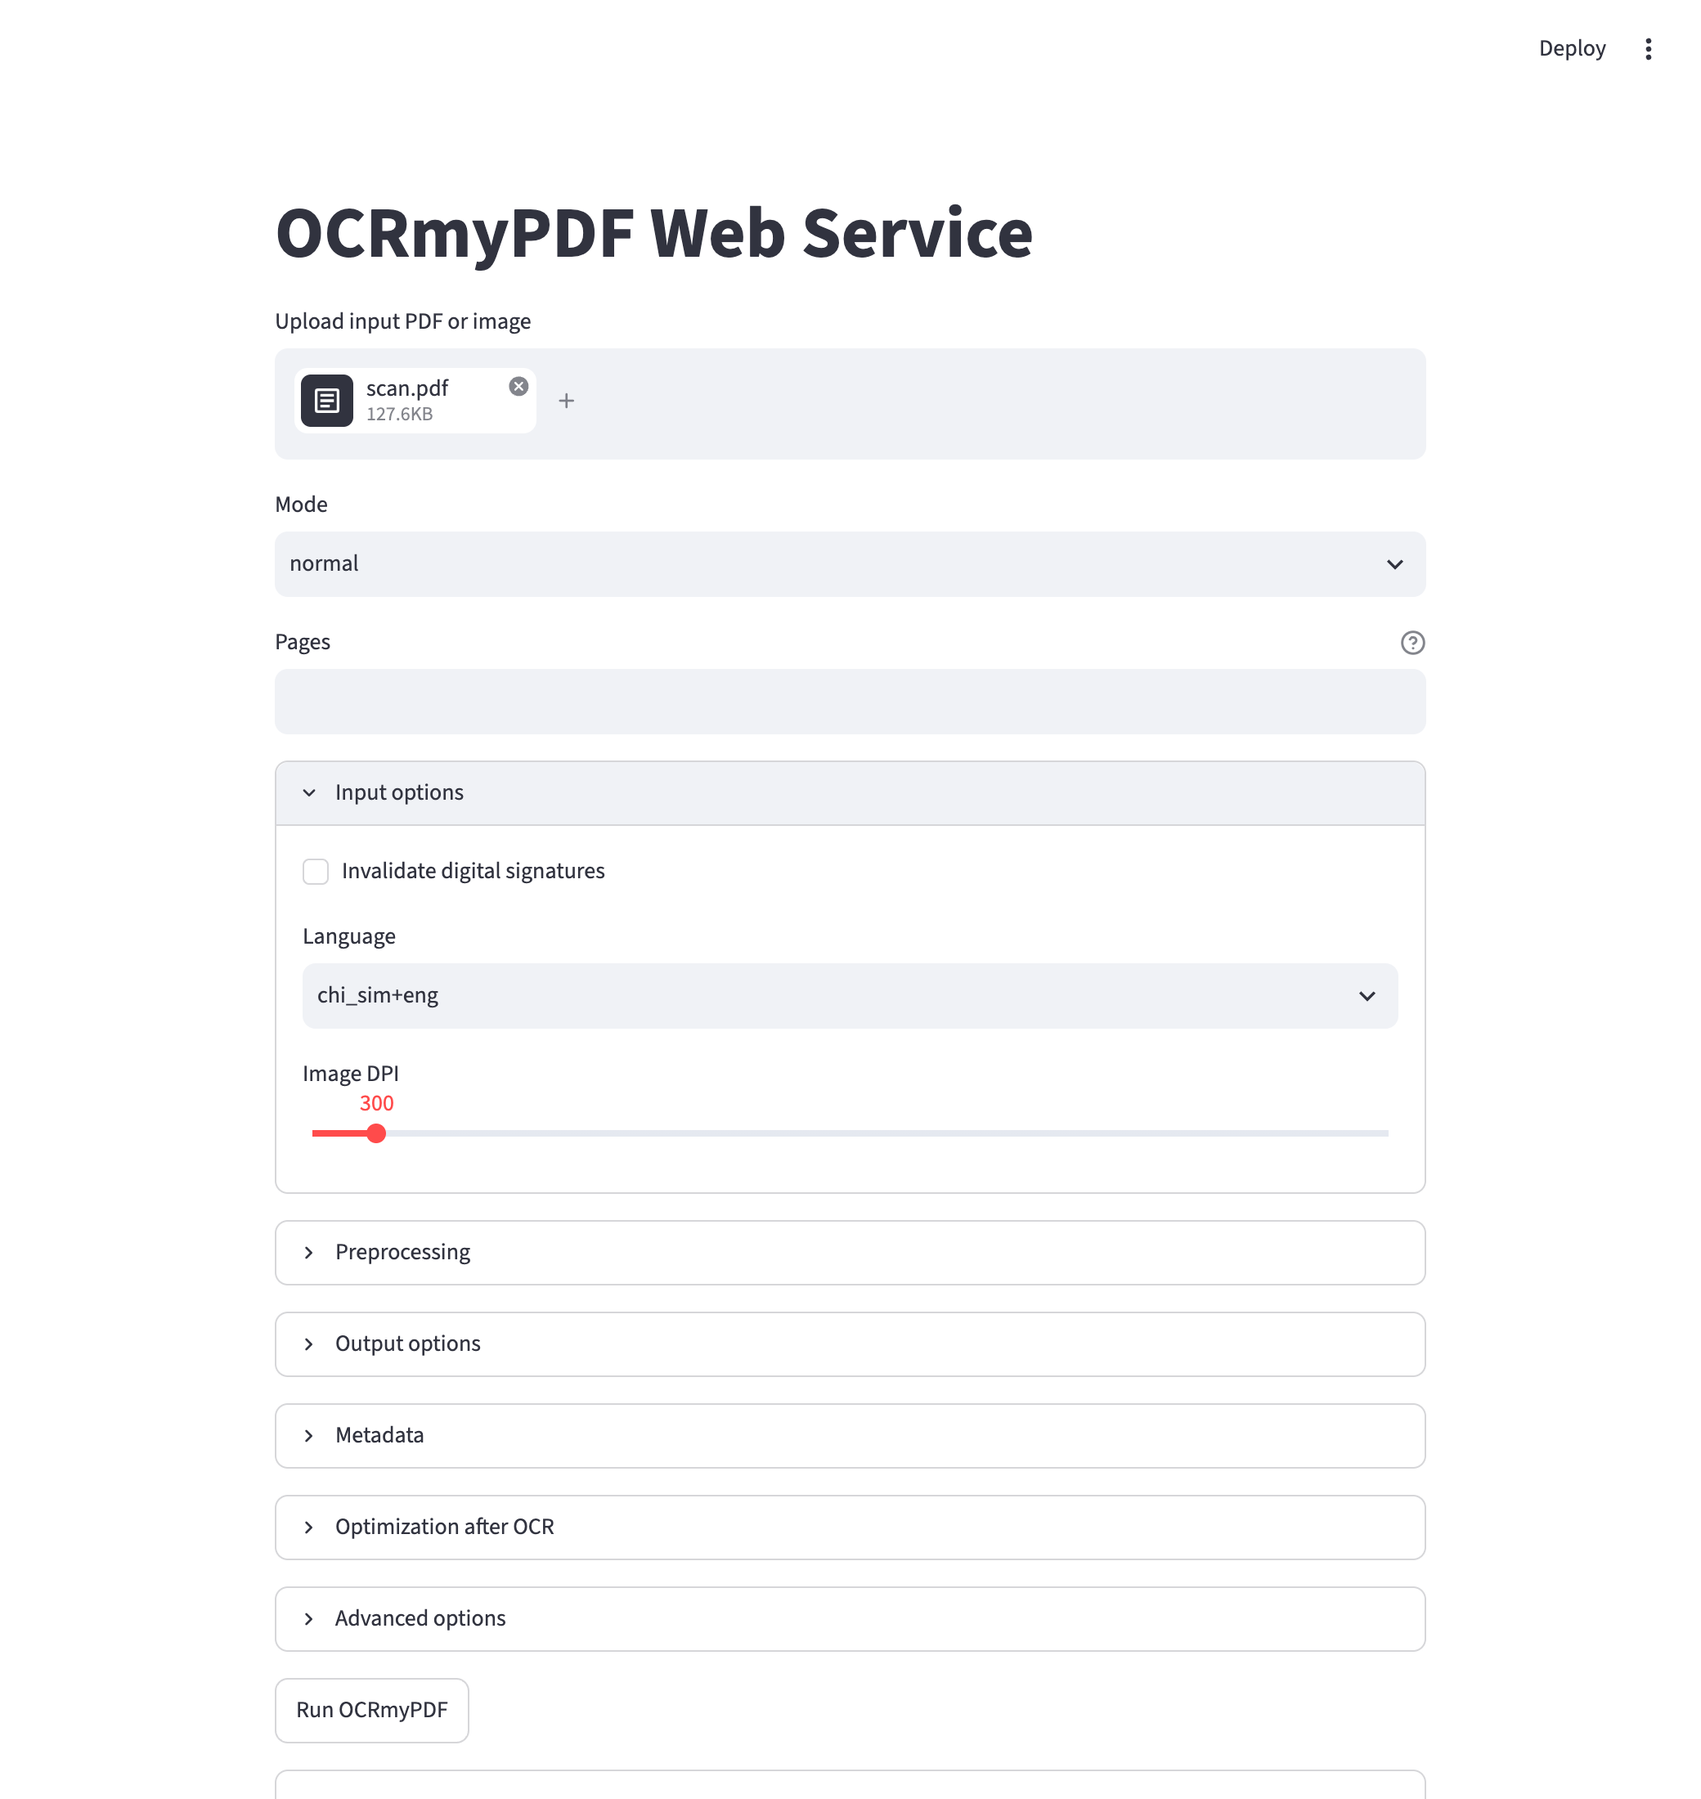
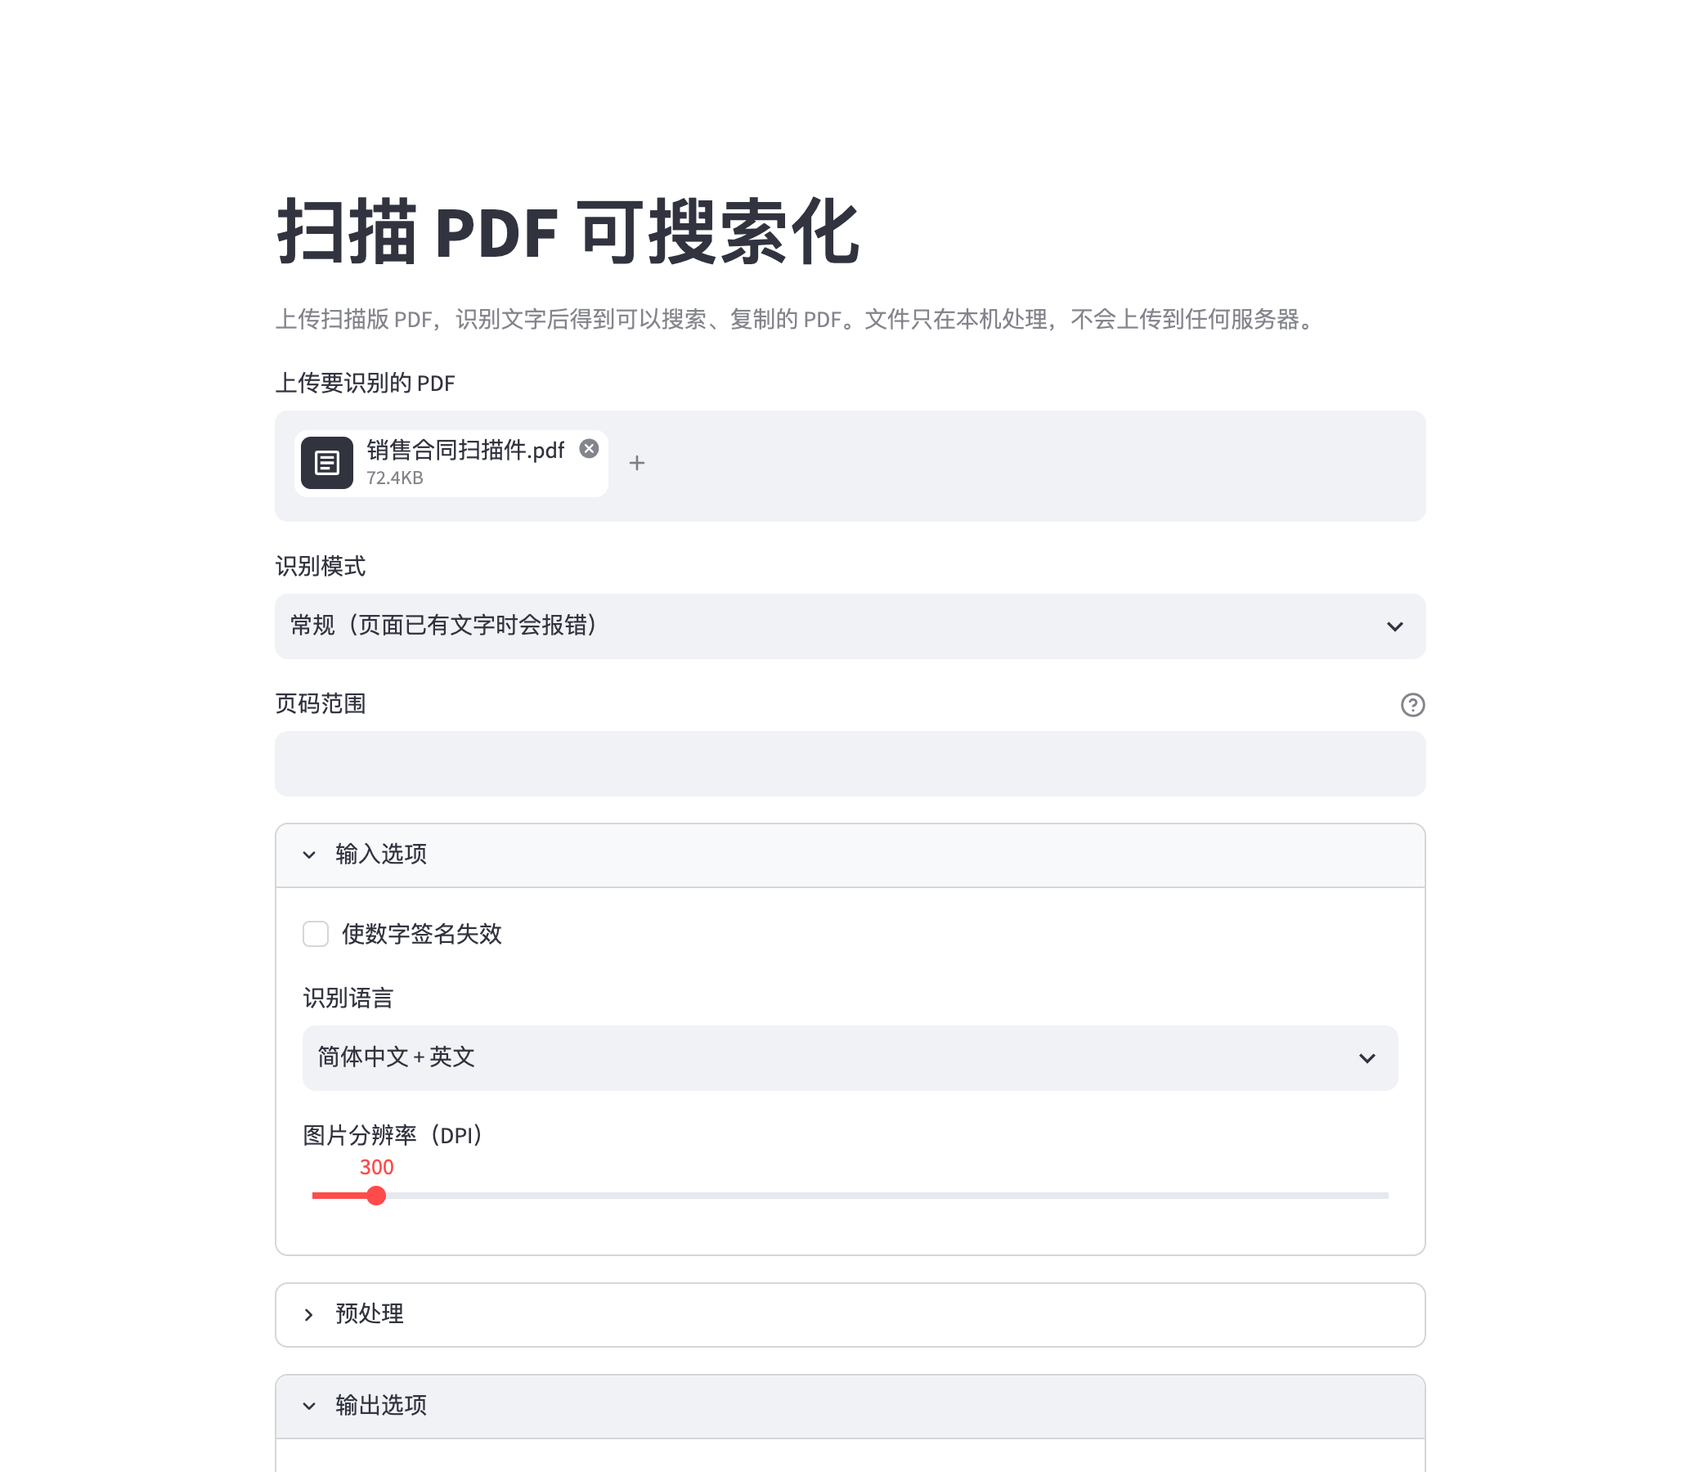
篝火：网页界面全部汉化，更新中文截图与说明

diff --git a/misc/_webservice.py b/misc/_webservice.py
@@ -15,8 +15,6 @@ from __future__ import annotations
 import os
 import subprocess
 import sys
-from functools import partial
-from operator import getitem
 from pathlib import Path
 from tempfile import TemporaryDirectory
 
@@ -36,109 +34,190 @@ def get_host_url_with_port(port: int) -> str:
     return f"//{host}:{port}"  # Use the same protocol
 
 
-st.title("OCRmyPDF Web Service")
+# 篝火版：界面文字全部汉化。选项的取值（传给 ocrmypdf 的参数）保持原样，只把显示文字换成中文。
+MODE_LABELS = {
+    "normal": "常规（页面已有文字时会报错）",
+    "skip-text": "跳过已有文字的页面",
+    "force-ocr": "强制识别（已有文字也重新识别）",
+    "redo-ocr": "重新识别（替换旧的文字层）",
+}
+LANGUAGE_LABELS = {
+    "chi_sim+eng": "简体中文 + 英文",
+    "eng": "英文",
+    "chi_tra+eng": "繁体中文 + 英文",
+    "chi_sim": "仅简体中文",
+}
+OUTPUT_TYPE_LABELS = {
+    "pdfa": "PDF/A（归档格式，默认）",
+    "pdf": "普通 PDF",
+    "pdfa-1": "PDF/A-1",
+    "pdfa-2": "PDF/A-2",
+    "pdfa-3": "PDF/A-3",
+    "none": "不生成文件",
+}
+RENDERER_LABELS = {
+    "auto": "自动选择",
+    "hocr": "逐词定位渲染",
+    "hocrdebug": "逐词定位渲染（显示文字框，调试用）",
+    "sandwich": "三明治渲染（图像加不可见文字层）",
+}
+OPTIMIZE_LABELS = {
+    "0": "0（不优化）",
+    "1": "1（无损优化）",
+    "2": "2（有损优化，受下方质量设置影响）",
+    "3": "3（最大程度压缩）",
+}
+COMPRESSION_LABELS = {"auto": "自动", "jpeg": "JPEG", "lossless": "无损"}
+VERBOSE_LABELS = {-1: "安静", 0: "默认", 1: "调试", 2: "详细调试"}
 
-uploaded = st.file_uploader("Upload input PDF or image", type=["pdf"], key="file")
-
-mode = st.selectbox("Mode", options=["normal", "skip-text", "force-ocr", "redo-ocr"])
-
-pages = st.text_input(
-    "Pages", value="", help="Comma-separated list of pages to process"
+st.title("扫描 PDF 可搜索化")
+st.caption(
+    "上传扫描版 PDF，识别文字后得到可以搜索、复制的 PDF。文件只在本机处理，不会上传到任何服务器。"
 )
 
-with st.expander("Input options"):
-    invalidate_digital_signatures = st.checkbox(
-        "Invalidate digital signatures", value=False
+uploaded = st.file_uploader("上传要识别的 PDF", type=["pdf"], key="file")
+
+# 篝火版：Streamlit 上传框自带的英文提示（按钮、拖放说明）没有中文开关，用样式把它们替换成中文。
+# 只在还没选文件时注入：选好文件后上传框里只剩图标按钮，样式会把它们弄乱。
+if uploaded is None:
+    st.markdown(
+        """
+<style>
+[data-testid="stFileUploaderDropzone"] button [data-testid="stMarkdownContainer"] p { font-size: 0 !important; }
+[data-testid="stFileUploaderDropzone"] button [data-testid="stMarkdownContainer"] p::after {
+    content: "选择文件"; font-size: 1rem;
+}
+[data-testid="stFileUploaderDropzoneInstructions"] span { font-size: 0 !important; }
+[data-testid="stFileUploaderDropzoneInstructions"] span::after {
+    content: "把 PDF 文件拖到这里，每个文件不超过 200 MB"; font-size: 0.875rem;
+}
+[data-testid="stFileUploaderDropzoneInstructions"] small { display: none; }
+</style>
+""",
+        unsafe_allow_html=True,
     )
+
+mode = st.selectbox(
+    "识别模式",
+    options=["normal", "skip-text", "force-ocr", "redo-ocr"],
+    format_func=MODE_LABELS.get,
+)
+
+pages = st.text_input(
+    "页码范围", value="", help="只处理指定的页，页码用英文逗号分隔，例如 1,3,5-8；留空表示全部页"
+)
+
+with st.expander("输入选项"):
+    invalidate_digital_signatures = st.checkbox("使数字签名失效", value=False)
     # 篝火版：语言选项改为启动脚本下载好的 chi_sim / chi_tra / eng
     language = st.selectbox(
-        "Language", options=["chi_sim+eng", "eng", "chi_tra+eng", "chi_sim"]
+        "识别语言",
+        options=["chi_sim+eng", "eng", "chi_tra+eng", "chi_sim"],
+        format_func=LANGUAGE_LABELS.get,
     )
 
     image_dpi = st.slider(
-        "Image DPI", value=300, key="image_dpi", min_value=1, max_value=5000, step=50
+        "图片分辨率（DPI）",
+        value=300,
+        key="image_dpi",
+        min_value=1,
+        max_value=5000,
+        step=50,
     )
-with st.expander("Preprocessing"):
-    skip_big = st.checkbox("Skip OCR on big pages", value=False, key="skip_big")
-    oversample = st.slider("Oversample", min_value=0, max_value=5000, value=0, step=50)
-    rotate_pages = st.checkbox("Rotate pages", value=False, key="rotate")
-    deskew = st.checkbox("Deskew pages", value=False, key="deskew")
-    clean = st.checkbox("Clean pages before OCR", value=False, key="clean")
-    clean_final = st.checkbox("Clean final", value=False, key="clean_final")
-    remove_vectors = st.checkbox("Remove vectors", value=False, key="remove_vectors")
+with st.expander("预处理"):
+    skip_big = st.checkbox("跳过过大的页面", value=False, key="skip_big")
+    oversample = st.slider(
+        "最低分辨率（DPI，低于此值会放大）", min_value=0, max_value=5000, value=0, step=50
+    )
+    rotate_pages = st.checkbox("自动旋转页面", value=False, key="rotate")
+    deskew = st.checkbox("自动纠正倾斜", value=False, key="deskew")
+    clean = st.checkbox("识别前清理页面", value=False, key="clean")
+    clean_final = st.checkbox("把清理结果写入最终文件", value=False, key="clean_final")
+    remove_vectors = st.checkbox("去除矢量图形", value=False, key="remove_vectors")
 
 
-with st.expander("Output options"):
+with st.expander("输出选项"):
     output_type = st.selectbox(
-        "Output type", options=["pdfa", "pdf", "pdfa-1", "pdfa-2", "pdfa-3", "none"]
+        "输出格式",
+        options=["pdfa", "pdf", "pdfa-1", "pdfa-2", "pdfa-3", "none"],
+        format_func=OUTPUT_TYPE_LABELS.get,
     )
 
     pdf_renderer = st.selectbox(
-        "PDF renderer", options=["auto", "hocr", "hocrdebug", "sandwich"]
+        "文字层渲染方式",
+        options=["auto", "hocr", "hocrdebug", "sandwich"],
+        format_func=RENDERER_LABELS.get,
     )
 
-    optimize = st.selectbox("Optimize", options=["0", "1", "2", "3"])
+    optimize = st.selectbox(
+        "文件体积优化", options=["0", "1", "2", "3"], format_func=OPTIMIZE_LABELS.get
+    )
 
-    st.selectbox("PDF/A compression", options=["auto", "jpeg", "lossless"])
+    st.selectbox(
+        "PDF/A 压缩方式",
+        options=["auto", "jpeg", "lossless"],
+        format_func=COMPRESSION_LABELS.get,
+    )
 
-with st.expander("Metadata"):
+with st.expander("文档信息"):
     title = author = keywords = subject = None
     if uploaded:
         with pikepdf.open(uploaded) as pdf, pdf.open_metadata() as meta:
             st.code(str(meta), language="xml")
-            title = st.text_input("Title", value=meta.get('dc:title', ''))
-            author = st.text_input("Author", value=meta.get('dc:creator', ''))
-            keywords = st.text_input("Keywords", value=meta.get('dc:subject', ''))
-            subject = st.text_input("Subject", value=meta.get('dc:description', ''))
+            title = st.text_input("标题", value=meta.get('dc:title', ''))
+            author = st.text_input("作者", value=meta.get('dc:creator', ''))
+            keywords = st.text_input("关键词", value=meta.get('dc:subject', ''))
+            subject = st.text_input("主题", value=meta.get('dc:description', ''))
+    else:
+        st.caption("上传 PDF 后，这里会显示并允许修改文档信息。")
 
 
-with st.expander("Optimization after OCR"):
+with st.expander("识别后的压缩"):
     jpeg_quality = st.slider(
-        "JPEG quality", min_value=0, max_value=100, value=75, key="jpeg_quality"
+        "JPEG 质量", min_value=0, max_value=100, value=75, key="jpeg_quality"
     )
     png_quality = st.slider(
-        "PNG quality", min_value=0, max_value=100, value=75, key="png_quality"
+        "PNG 质量", min_value=0, max_value=100, value=75, key="png_quality"
     )
     jbig2_threshold = st.number_input(
-        "JBIG2 threshold", value=0.85, key="jbig2_threshold"
+        "黑白图压缩阈值", value=0.85, key="jbig2_threshold"
     )
 
-with st.expander("Advanced options"):
+with st.expander("高级选项"):
     jobs = st.slider(
-        "Threads",
+        "并行线程数",
         min_value=1,
         max_value=os.cpu_count(),
         value=os.cpu_count(),
         key="threads",
     )
     max_image_mpixels = st.number_input(
-        "Max image size",
+        "图片大小上限（百万像素）",
         value=250.0,
         min_value=0.0,
-        help="Maximum image size in megapixels",
+        help="超过这个大小的图片会被拒绝处理，单位是百万像素",
     )
     rotate_pages_threshold = st.number_input(
-        "Rotate pages threshold",
+        "自动旋转的置信度阈值",
         value=DEFAULT_ROTATE_PAGES_THRESHOLD,
         min_value=0.0,
         max_value=1000.0,
-        help="Threshold for automatic page rotation",
+        help="识别出的页面方向置信度达到这个值才会自动旋转",
     )
     fast_web_view = st.number_input(
-        "Fast web view",
+        "网页快速浏览阈值（MB）",
         value=1.0,
         min_value=0.0,
-        help="Linearize files above this size in MB",
+        help="大于这个体积的文件会做线性化处理，方便边下载边浏览，单位是 MB",
     )
     continue_on_soft_render_error = st.checkbox(
-        "Continue on soft render error", value=True
+        "页面渲染出现轻微错误时继续处理", value=True
     )
-    verbose_labels = ["quiet", "default", "debug", "debug_all"]
     verbose = st.selectbox(
-        "Verbosity level",
+        "日志详细程度",
         options=[-1, 0, 1, 2],
         index=1,
-        format_func=partial(getitem, verbose_labels),
+        format_func=VERBOSE_LABELS.get,
     )
 
 if uploaded:
@@ -208,7 +287,7 @@ if uploaded:
 
             # 篝火版：去掉上游的 disabled 逻辑。新版 streamlit 下点击的同一轮里按钮
             # 已被禁用，点击不会触发任何处理。
-            if st.button("Run OCRmyPDF", key='run_button'):
+            if st.button("开始识别", key='run_button'):
                 st.session_state['running'] = True
                 args = [sys.executable, '-u', '-m', "ocrmypdf"] + args
 
@@ -226,16 +305,16 @@ if uploaded:
                             )
 
                 if proc.returncode != 0:
-                    st.error(f"ocrmypdf failed with exit code {proc.returncode}")
+                    st.error(f"识别失败，退出码 {proc.returncode}。请查看上方的日志。")
                     st.session_state['running'] = False
                     st.stop()
 
                 if not output_file.exists() or output_file.stat().st_size == 0:
-                    st.error("No output PDF file was generated")
+                    st.error("没有生成输出文件，请查看上方的日志。")
                     st.stop()
 
                 st.download_button(
-                    label="Download output PDF",
+                    label="下载识别后的 PDF",
                     data=output_file.read_bytes(),
                     file_name=uploaded.name,
                     mime="application/pdf",

diff --git a/campfire_run.py b/campfire_run.py
@@ -19,6 +19,7 @@ sys.exit(
             "--server.address", "127.0.0.1",
             "--server.headless", "true",
             "--browser.gatherUsageStats", "false",
+            "--client.toolbarMode", "minimal",
         ]
     )
 )

diff --git a/README.md b/README.md
@@ -13,7 +13,7 @@
   - Windows：`winget install UB-Mannheim.TesseractOCR`，或到 https://github.com/UB-Mannheim/tesseract/wiki 下载安装包，按默认路径安装即可。
 - **Ghostscript 可选**：上游 v17 起不再强制需要 Ghostscript（用 pypdfium2 渲染页面，并自行生成 PDF/A）。Ghostscript 是 AGPL 协议，所以本工具不要求安装。需要它时（例如个别文件转 PDF/A 失败）：Mac `brew install ghostscript`，Windows 到 https://ghostscript.com/releases/gsdnld.html 下载安装。
 - **中文识别数据**：第一次启动脚本会自动下载 Tesseract 的 `eng`、`osd`、`chi_sim`（简体中文）、`chi_tra`（繁体中文）语言数据（来自 tesseract-ocr/tessdata_fast，约 20 MB）到解压出来的 `tessdata` 文件夹，不改动你系统里的 Tesseract。
-- 网页界面是英文（上游原样）。语言下拉框里选 `chi_sim+eng`（简体中文 + 英文，默认）、`eng`、`chi_tra+eng`、`chi_sim`。
+- 网页界面已汉化为中文（上游原本是英文）。「识别语言」下拉框里有：简体中文 + 英文（默认）、英文、繁体中文 + 英文、仅简体中文。处理过程中的进度日志是 OCRmyPDF 自己输出的，保持英文原样。
 - 需要联网：首次启动会下载 uv、Python 3.12、依赖和语言数据。
 
 ## 下载与运行
@@ -27,10 +27,10 @@
 
 ## 怎么用
 
-1. 把扫描 PDF 拖到「Upload input PDF or image」。
-2. 展开 `Input options`，确认 `Language`（中英混排保持默认 `chi_sim+eng`）。
-3. 点 `Run OCRmyPDF`，等进度日志跑完，点 `Download output PDF`。
-4. 已经有文字层的页面会报错停止；要跳过它们选 Mode 里的 `skip-text`，要强制重新识别选 `force-ocr`。其余选项（纠偏、转正、清理、PDF/A、压缩）含义见上游文档。
+1. 把扫描 PDF 拖到「上传要识别的 PDF」，或点「选择文件」。
+2. 展开「输入选项」，确认「识别语言」（中英混排保持默认的「简体中文 + 英文」）。
+3. 点「开始识别」，等进度日志跑完，点「下载识别后的 PDF」。
+4. 已经有文字层的页面会报错停止；要跳过它们，把「识别模式」选成「跳过已有文字的页面」，要强制重新识别选「强制识别」。其余选项（纠偏、转正、清理、PDF/A、压缩）含义见上游文档。
 5. 想批量处理一个文件夹，可用命令行 `ocrmypdf`，或上游 `misc/batch.py`、`misc/watcher.py`（需要自己配好环境，篝火没有验证）。
 
 ## 验收用例
@@ -40,7 +40,7 @@
 | 操作 | 应得到 |
 |---|---|
 | 处理前 `pdftotext scan.pdf -` | 几乎没有文字 |
-| 网页里选 `chi_sim+eng` 处理，下载结果后 `pdftotext out.pdf -` | 能提取出上述中英文句子；用 PDF 阅读器搜「示例」「Invoice」能命中 |
+| 网页里「识别语言」选「简体中文 + 英文」处理，下载结果后 `pdftotext out.pdf -` | 能提取出上述中英文句子；用 PDF 阅读器搜「示例」「Invoice」能命中 |
 
 篝火本机实测（Mac，Tesseract 5 + tessdata_fast 的 chi_sim）：中英文都识别正确；中文逗号被识别成半角逗号加空格（「样本 , 付款」），属于 tessdata_fast 的小瑕疵，换 `tessdata_best` 的 chi_sim 数据通常更准（自行替换 `tessdata` 文件夹里的 `chi_sim.traineddata`）。只测了清晰的印刷体样例，手写、模糊、复杂版面的效果请自己用实际文件试。
 
@@ -54,11 +54,14 @@
 
 - 新增中文说明、`tool.json`、`.github/workflows/release.yml`、`campfire/` 启动脚本，以及两个辅助脚本 `campfire_setup.py`（检查 Tesseract、下载语言数据）和 `campfire_run.py`（设置语言数据路径并启动网页界面）。移除了上游的工作流。
 - 安装的是 PyPI 上的上游 v17.13.0 发布包（`ocrmypdf==17.13.0`），不是源码目录。
-- 改了上游网页界面 `misc/_webservice.py`（该文件按上游声明是 AGPL-3.0-or-later，改动同样以该协议开放），共 4 处：
+- 改了上游网页界面 `misc/_webservice.py`（该文件按上游声明是 AGPL-3.0-or-later，改动同样以该协议开放），共 6 处：
   1. 语言下拉框由 `eng/deu/fra/spa` 改为 `chi_sim+eng / eng / chi_tra+eng / chi_sim`；
   2. 去掉「点击时按钮已被禁用」的逻辑（新版 streamlit 下点了按钮没有任何反应）；
   3. 输入输出文件改用临时目录（Windows 上不能让子进程打开仍被占用的临时文件）；
-  4. 日志按 UTF-8 解码。
+  4. 日志按 UTF-8 解码；
+  5. 界面文字全部汉化：标题、说明、所有选项名和帮助、按钮、报错、下拉选项的显示文字；传给 `ocrmypdf` 的参数名和取值保持原样，进度日志也保持原样；
+  6. 上传框自带的英文提示（按钮和拖放说明）用样式替换成中文；「日志详细程度」下拉框的显示文字按真实含义对应（上游原来的标签顺序和取值错位）。
+- `campfire_run.py` 启动时加了 `--client.toolbarMode minimal`，隐藏网页右上角的英文「Deploy」按钮。
 - 上游自己的网页界面只是示例性质的小服务，没有鉴权，只监听本机 127.0.0.1，请不要对外开放。
 
 ## 归属与许可证
